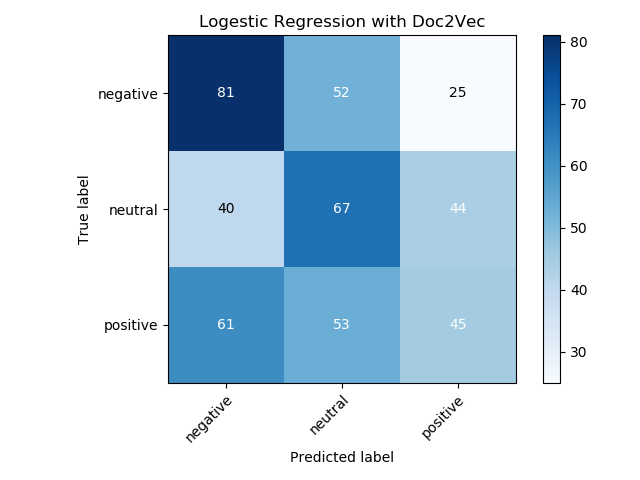
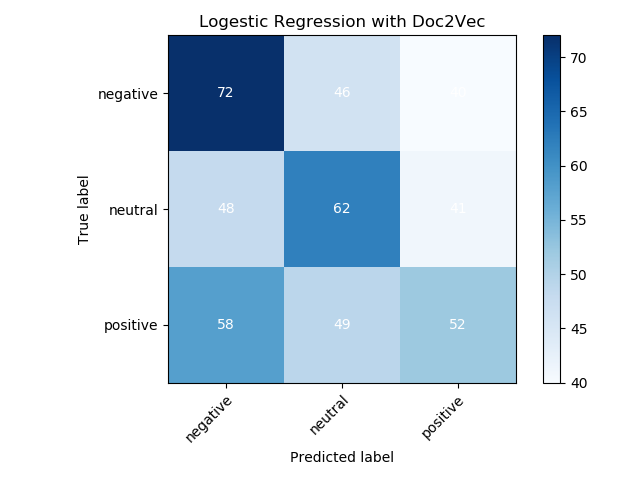
Rerunning to models to get scores for website, added confusion matrices to results page.

diff --git a/app/templates/model_results.html b/app/templates/model_results.html
@@ -1,6 +1,60 @@
 {% extends "base.html" %}
 {% block content %}
 
-<p>Hello World</p>
+<div class="container">
+    <p>
+        For this application I tried several different models to see what performed best in sentiment classification.
+        The first model I made for topic classification, Multinomial Naive Bayes, had an accuracy score of 96% so I decided 
+        to stick with that model for this application. <br>
+        Sentiment classification was a little tricker and I experimented with a couple different models. Below you can see the accuracy
+        and the F1 scores of the different models that I trained for this project.
+    </p>
+
+    <table>
+        <tr>
+            <th></th>
+            <th>Accuracy</th>
+            <th>F1 Score</th>
+        </tr>
+        <tr>
+            <td>Naive Bayes trained on TF-IDF for Sentiment Classification</td>
+            <td>68%</td>
+            <td>68%</td>
+        </tr>
+        <tr>
+            <td>Naive Bayes trained on TF-IDF for Topic Classification</td>
+            <td>96%</td>
+            <td>96%</td>
+        </tr>
+        <tr>
+            <td>Logistic Regression trained on Doc2Vec for Sentiment Classification</td>
+            <td>39%</td>
+            <td>39%</td>
+        </tr>
+        <tr>
+            <td>Naive Bayes trained on Doc2Vec for Sentiment Classification</td>
+            <td>35%</td>
+            <td>22%</td>
+        </tr>
+    </table>
+
+    <br>
+
+    <table>
+        <tr>
+            <th>Using TF-IDF to Featurize the Text</th>
+            <th>Using Doc2Vec to Featurize the Text</th>
+        </tr>
+        <tr>
+            <td><img src="static/img/tfidf_nb_confmat_sentiment.png" style="width:480px;height:360px;"></td>
+            <td><img src="static/img/d2v_logreg_confmat.png" style="width:480px;height:360px;"></td>
+        </tr>
+        <tr>
+            <td><img src="static/img/tfidf_nb_confmat_companies.png" style="width:480px;height:360px;"></td>
+            <td><img src="static/img/d2v_nb_confmat.png" style="width:480px;height:360px;"></td>
+        </tr>
+    </table>
+</div>
+
 
 {% endblock %}

diff --git a/app/templates/predict.html b/app/templates/predict.html
@@ -1,8 +1,8 @@
 {% extends "base.html" %}
 {% block content %}
 
-<h1 align="center">Your Predicted Tweet</h1>
-<div align="center">
+<div class="container" align="center">
+  <h1 align="center">Your Predicted Tweet</h1>
   <span style="color: #5c9bbf; font-weight: bold;">Your Tweet</span>
   <p>{{ tweet }}</p>
   <span style="color: #5c9bbf; font-weight: bold;">Predicted Company of Topic and Sentiment</span>

diff --git a/app/templates/home.html b/app/templates/home.html
@@ -9,7 +9,7 @@
 </div><!-- /.container -->
 
   <div class="container" align="center">
-    <h1>Submit Your Text</h1>
+    <h3>Submit Your Text</h3>
     <p>Paste or type your tweet into the input box below, and click the <span>Classify</span> button to predict your tweets's classification.</p>
   
     <form action="/predict" method='POST' >

diff --git a/src/main.py b/src/main.py
@@ -11,12 +11,12 @@ if __name__ == '__main__':
     runner = Runner()
 
     '''TF-IDF'''
-    # runner.run_naive_bayes_sentiment()
-    # runner.run_naive_bayes_topic()
+    runner.run_naive_bayes_sentiment()
+    runner.run_naive_bayes_topic()
 
     '''Doc2Vec'''
-    # runner.run_doc2vec_logreg()
-    # runner.run_doc2vec_naivebayes()
+    runner.run_doc2vec_logreg()
+    runner.run_doc2vec_naivebayes()
 
     '''EDA Plots of Data'''
-    runner.make_plots()
+    # runner.make_plots()
